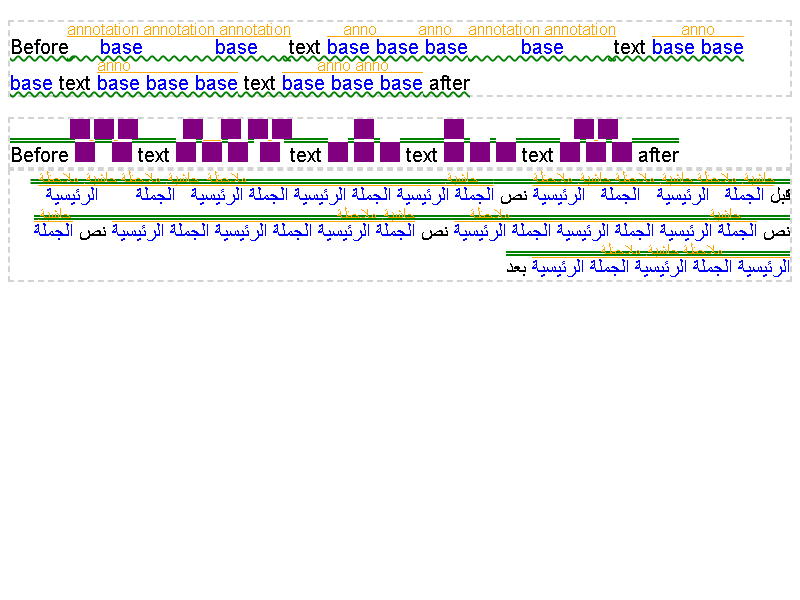
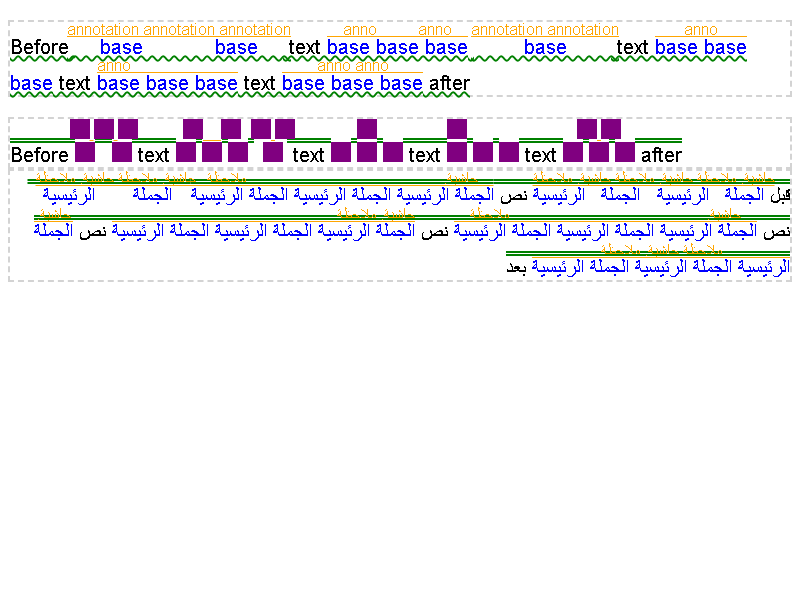
Ruby: Fix annotation overhang overlap
If the width of a text item between overhanging ruby columns was shorter
than total overhang amount from both ruby columns, ruby annotations were
overlapped.

To avoid this issue, we limit available size for overhang to a half
of the text item width.

Fixed: 329776386
Auto-Submit: Kent Tamura <tkent@chromium.org>
Commit-Queue: Koji Ishii <kojii@chromium.org>
Cr-Commit-Position: refs/heads/main@{#1399053}
NOKEYCHECK=True
GitOrigin-RevId: 4ee251bb296f913e5dac178956e3704c75b4495c

diff --git a/blink/web_tests/external/wpt/css/css-ruby/ruby-overhang-no-overlap.html b/blink/web_tests/external/wpt/css/css-ruby/ruby-overhang-no-overlap.html
@@ -1,0 +1,26 @@
+<!DOCTYPE html>
+<meta charset="utf-8">
+<link rel="help" href="https://crbug.com/329776386">
+<script src="/resources/testharness.js"></script>
+<script src="/resources/testharnessreport.js"></script>
+<style>
+p {
+  font-size: 10px;
+}
+ruby {
+  font-size: 40px;
+}
+</style>
+
+<p>
+<ruby>安<rt>ān</rt></ruby>〓<ruby>装<rt>zhuāng</rt></ruby>〓<ruby>窗<rt>chuāng</rt></ruby>〓<ruby>户<rt>hù</rt></ruby>
+</p>
+
+<script>
+test(() => {
+  const rts = document.querySelectorAll('rt');
+  const bounds2 = rts[1].getBoundingClientRect();
+  const bounds3 = rts[2].getBoundingClientRect();
+  assert_less_than_equal(Math.round(bounds2.right), Math.round(bounds3.left));
+}, "Annotations should not be overlapped");
+</script>

diff --git a/blink/web_tests/fast/ruby/ruby-first-letter-expected.html b/blink/web_tests/fast/ruby/ruby-first-letter-expected.html
@@ -8,8 +8,7 @@
 ruby tags works correctly.</div>
 
 <p>&lt;ruby&gt; is defined in the
-<ruby id='ruby'>H<rt>Hyper</rt>T<rt>Text</rt>M<rt>Markup</rt>L<rt>Language</rt>5<rt>Level 5</rt>T<rt>Test</rt>
-</ruby> specs.</p>
+<ruby id='ruby'>H<rt>Hyper</rt>T<rt>Text</rt>M<rt>Markup</rt>L<rt>Language</rt>5<rt>Level 5</rt>T<rt>Test</rt></ruby> specs.</p>
 
 <ruby xml:lang="ja">
   <rbc>

diff --git a/blink/renderer/core/layout/inline/ruby_utils.cc b/blink/renderer/core/layout/inline/ruby_utils.cc
@@ -235,7 +235,11 @@ bool CanApplyStartOverhang(const LineInfo& line_info,
   if (previous_item.item->Style()->FontSize() > ruby_style.FontSize()) {
     return false;
   }
-  start_overhang = std::min(start_overhang, previous_item.inline_size);
+  LayoutUnit text_inline_size = previous_item.inline_size;
+  if (RuntimeEnabledFeatures::RubyOverhangOverlapFixEnabled()) {
+    text_inline_size = text_inline_size / 2;
+  }
+  start_overhang = std::min(start_overhang, text_inline_size);
   return true;
 }
 
@@ -275,9 +279,13 @@ LayoutUnit CommitPendingEndOverhang(const InlineItem& text_item,
   // width of the InlineItem's ShapeResult. However it's impossible to compute
   // inline_size of |text_item| before calling BreakText(), and BreakText()
   // requires precise |position_| which takes |end_overhang| into account.
+  LayoutUnit text_inline_size =
+      LayoutUnit(text_item.TextShapeResult()->Width());
+  if (RuntimeEnabledFeatures::RubyOverhangOverlapFixEnabled()) {
+    text_inline_size = text_inline_size / 2;
+  }
   LayoutUnit end_overhang =
-      std::min(column_item.pending_end_overhang,
-               LayoutUnit(text_item.TextShapeResult()->Width()));
+      std::min(column_item.pending_end_overhang, text_inline_size);
   InlineItemResult& end_item =
       column_item.ruby_column->base_line.MutableResults()->back();
   DCHECK_EQ(end_item.item->Type(), InlineItem::kRubyLinePlaceholder);
